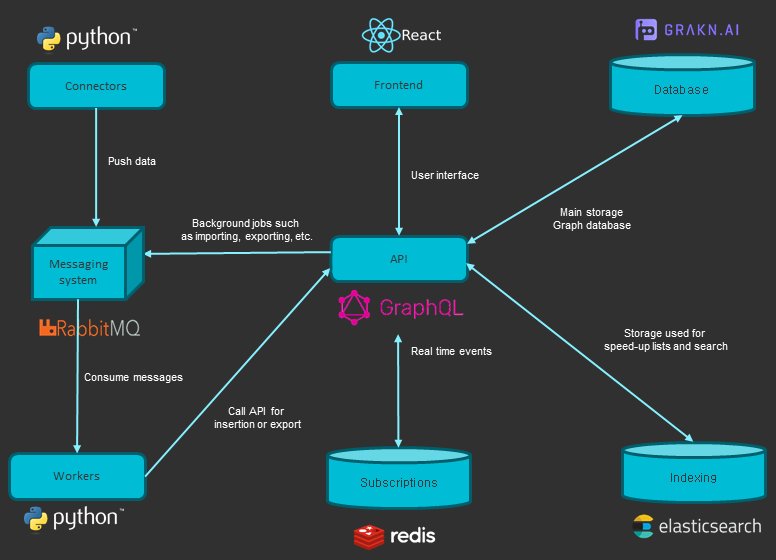
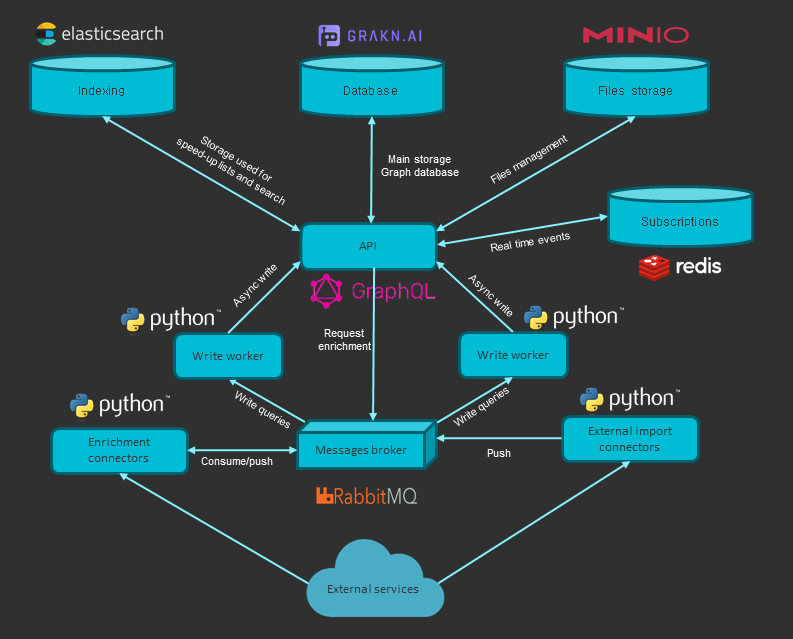
Deploy website
Deploy website version based on dc95fa42d113244a02b788e66fdfb3d473667911

diff --git a/next/getting-started/architecture.html b/next/getting-started/architecture.html
@@ -57,6 +57,15 @@
         </script></nav></div><div class="container mainContainer"><div class="wrapper"><div class="post"><header class="postHeader"><h1 class="postHeaderTitle">Architecture of the application</h1></header><article><div><span><p>The OpenCTI platform relies on several external databases and services in order to work.</p>
 <p><img src="/docs/assets/getting-started/architecture.png" alt="Architecture" title="Architecture"></p>
 <h2><a class="anchor" aria-hidden="true" id="the-graphql-api"></a><a href="#the-graphql-api" aria-hidden="true" class="hash-link"><svg class="hash-link-icon" aria-hidden="true" height="16" version="1.1" viewBox="0 0 16 16" width="16"><path fill-rule="evenodd" d="M4 9h1v1H4c-1.5 0-3-1.69-3-3.5S2.55 3 4 3h4c1.45 0 3 1.69 3 3.5 0 1.41-.91 2.72-2 3.25V8.59c.58-.45 1-1.27 1-2.09C10 5.22 8.98 4 8 4H4c-.98 0-2 1.22-2 2.5S3 9 4 9zm9-3h-1v1h1c1 0 2 1.22 2 2.5S13.98 12 13 12H9c-.98 0-2-1.22-2-2.5 0-.83.42-1.64 1-2.09V6.25c-1.09.53-2 1.84-2 3.25C6 11.31 7.55 13 9 13h4c1.45 0 3-1.69 3-3.5S14.5 6 13 6z"></path></svg></a>The GraphQL API</h2>
-<p>The API is the central part of the OpenCTI platorm, allowing the <em>clients</em> (including the <em>frontend</em>) to interact with the <em>databases</em> and the <em>brokers</em>.</p>
-<p><a href="https://opencti-platform.github.io/docs">documentation on the tool</a></p>
-</span></div></article></div><div class="docLastUpdate"><em>Last updated on 6/30/2019 by Samuel Hassine</em></div><div class="docs-prevnext"><a class="docs-prev button" href="/docs/next/getting-started/introduction"><span class="arrow-prev">← </span><span>Introduction</span></a><a class="docs-next button" href="/docs/next/getting-started/requirements"><span>Infrastructure requirements</span><span class="arrow-next"> →</span></a></div></div></div><nav class="onPageNav"><ul class="toc-headings"><li><a href="#the-graphql-api">The GraphQL API</a></li></ul></nav></div><footer class="nav-footer" id="footer"><section class="sitemap"><a href="/docs/" class="nav-home"><img src="/docs/img/logo.png" alt="OpenCTI documentation" width="66" height="58"/></a><div><h5>Docs</h5><a href="/docs/installation/docker">Install using Docker</a><a href="/docs/usage/overview">Usage introduction</a><a href="/docs/development/installation">Development environment</a></div><div><h5>Community</h5><a href="https://demo.opencti.io">Demonstration</a><a href="http://stackoverflow.com/questions/tagged/OpenCTI" target="_blank" rel="noreferrer noopener">Stack Overflow</a><a href="https://slack.luatix.org/">Slack</a><a href="https://twitter.com/LuatixHQ" target="_blank" rel="noreferrer noopener">Twitter</a></div><div><h5>More</h5><a href="https://www.luatix.org/en/blog/">Blog</a><a href="https://github.com/OpenCTI-Platform">GitHub</a><a class="github-button" href="https://github.com/OpenCTI-Platform/opencti" data-icon="octicon-star" data-count-href="/OpenCTI-Platform/opencti/stargazers" data-show-count="true" data-count-aria-label="# stargazers on GitHub" aria-label="Star this project on GitHub">Star</a></div></section><section class="copyright">Copyright © 2019 OpenCTI</section></footer></div></body></html>
+<p>The API is the central part of the OpenCTI platorm, allowing the <em>clients</em> (including the <em>frontend</em>) to interact with the <em>databases</em> and the <em>brokers</em>. Built in NodeJS, it implements the <a href="https://graphql.org/">GraphQL</a> query language. As the API has not a full documentation for the moment, you can explore the available methods and parameters through a GraphQL playground. An example is available on the <a href="https://demo.opencti.io/graphql">demonstration instance</a>.</p>
+<h2><a class="anchor" aria-hidden="true" id="the-workers"></a><a href="#the-workers" aria-hidden="true" class="hash-link"><svg class="hash-link-icon" aria-hidden="true" height="16" version="1.1" viewBox="0 0 16 16" width="16"><path fill-rule="evenodd" d="M4 9h1v1H4c-1.5 0-3-1.69-3-3.5S2.55 3 4 3h4c1.45 0 3 1.69 3 3.5 0 1.41-.91 2.72-2 3.25V8.59c.58-.45 1-1.27 1-2.09C10 5.22 8.98 4 8 4H4c-.98 0-2 1.22-2 2.5S3 9 4 9zm9-3h-1v1h1c1 0 2 1.22 2 2.5S13.98 12 13 12H9c-.98 0-2-1.22-2-2.5 0-.83.42-1.64 1-2.09V6.25c-1.09.53-2 1.84-2 3.25C6 11.31 7.55 13 9 13h4c1.45 0 3-1.69 3-3.5S14.5 6 13 6z"></path></svg></a>The workers</h2>
+<p>The workers are standalone Python processes that just consume messages from the RabbitMQ broker in order to do asynchroneous write queries. You can launch as many workers as you need to increase the write performances. Nevertheless, the Grakn database could have some problems with concurrent writing and fails on some operations.</p>
+<h2><a class="anchor" aria-hidden="true" id="the-connectors"></a><a href="#the-connectors" aria-hidden="true" class="hash-link"><svg class="hash-link-icon" aria-hidden="true" height="16" version="1.1" viewBox="0 0 16 16" width="16"><path fill-rule="evenodd" d="M4 9h1v1H4c-1.5 0-3-1.69-3-3.5S2.55 3 4 3h4c1.45 0 3 1.69 3 3.5 0 1.41-.91 2.72-2 3.25V8.59c.58-.45 1-1.27 1-2.09C10 5.22 8.98 4 8 4H4c-.98 0-2 1.22-2 2.5S3 9 4 9zm9-3h-1v1h1c1 0 2 1.22 2 2.5S13.98 12 13 12H9c-.98 0-2-1.22-2-2.5 0-.83.42-1.64 1-2.09V6.25c-1.09.53-2 1.84-2 3.25C6 11.31 7.55 13 9 13h4c1.45 0 3-1.69 3-3.5S14.5 6 13 6z"></path></svg></a>The connectors</h2>
+<p>The connectors are third-party softwares (Python processes) that can play 4 different roles on the platform:</p>
+<ul>
+<li>EXTERNAL_IMPORT: from remote sources to OpenCTI STIX2 (ie. MITRE, MISP, CVE, etc.)</li>
+<li>INTERNAL_IMPORT_FILE: from OpenCTI file system to OpenCTI STIX (ie. Extraction of observables from PDFs, STIX2 import, etc.)</li>
+<li>INTERNAL_ENRICHMENT: from OpenCTI STIX2 to OpenCTI STIX2 (ie. Enrichment of observables though external servies, entities updates, etc.)</li>
+<li>INTERNAL_EXPORT_FILE: from OpenCTI STIX2 to OpenCTI file system (ie. STIX2 export, PDF export, CSV list generation, etc.)</li>
+</ul>
+</span></div></article></div><div class="docLastUpdate"><em>Last updated on 10/26/2019 by Julien Richard</em></div><div class="docs-prevnext"><a class="docs-prev button" href="/docs/next/getting-started/introduction"><span class="arrow-prev">← </span><span>Introduction</span></a><a class="docs-next button" href="/docs/next/getting-started/requirements"><span>Infrastructure requirements</span><span class="arrow-next"> →</span></a></div></div></div><nav class="onPageNav"><ul class="toc-headings"><li><a href="#the-graphql-api">The GraphQL API</a></li><li><a href="#the-workers">The workers</a></li><li><a href="#the-connectors">The connectors</a></li></ul></nav></div><footer class="nav-footer" id="footer"><section class="sitemap"><a href="/docs/" class="nav-home"><img src="/docs/img/logo.png" alt="OpenCTI documentation" width="66" height="58"/></a><div><h5>Docs</h5><a href="/docs/installation/docker">Install using Docker</a><a href="/docs/usage/overview">Usage introduction</a><a href="/docs/development/installation">Development environment</a></div><div><h5>Community</h5><a href="https://demo.opencti.io">Demonstration</a><a href="http://stackoverflow.com/questions/tagged/OpenCTI" target="_blank" rel="noreferrer noopener">Stack Overflow</a><a href="https://slack.luatix.org/">Slack</a><a href="https://twitter.com/LuatixHQ" target="_blank" rel="noreferrer noopener">Twitter</a></div><div><h5>More</h5><a href="https://www.luatix.org/en/blog/">Blog</a><a href="https://github.com/OpenCTI-Platform">GitHub</a><a class="github-button" href="https://github.com/OpenCTI-Platform/opencti" data-icon="octicon-star" data-count-href="/OpenCTI-Platform/opencti/stargazers" data-show-count="true" data-count-aria-label="# stargazers on GitHub" aria-label="Star this project on GitHub">Star</a></div></section><section class="copyright">Copyright © 2019 OpenCTI</section></footer></div></body></html>

diff --git a/next/getting-started/architecture/index.html b/next/getting-started/architecture/index.html
@@ -57,6 +57,15 @@
         </script></nav></div><div class="container mainContainer"><div class="wrapper"><div class="post"><header class="postHeader"><h1 class="postHeaderTitle">Architecture of the application</h1></header><article><div><span><p>The OpenCTI platform relies on several external databases and services in order to work.</p>
 <p><img src="/docs/assets/getting-started/architecture.png" alt="Architecture" title="Architecture"></p>
 <h2><a class="anchor" aria-hidden="true" id="the-graphql-api"></a><a href="#the-graphql-api" aria-hidden="true" class="hash-link"><svg class="hash-link-icon" aria-hidden="true" height="16" version="1.1" viewBox="0 0 16 16" width="16"><path fill-rule="evenodd" d="M4 9h1v1H4c-1.5 0-3-1.69-3-3.5S2.55 3 4 3h4c1.45 0 3 1.69 3 3.5 0 1.41-.91 2.72-2 3.25V8.59c.58-.45 1-1.27 1-2.09C10 5.22 8.98 4 8 4H4c-.98 0-2 1.22-2 2.5S3 9 4 9zm9-3h-1v1h1c1 0 2 1.22 2 2.5S13.98 12 13 12H9c-.98 0-2-1.22-2-2.5 0-.83.42-1.64 1-2.09V6.25c-1.09.53-2 1.84-2 3.25C6 11.31 7.55 13 9 13h4c1.45 0 3-1.69 3-3.5S14.5 6 13 6z"></path></svg></a>The GraphQL API</h2>
-<p>The API is the central part of the OpenCTI platorm, allowing the <em>clients</em> (including the <em>frontend</em>) to interact with the <em>databases</em> and the <em>brokers</em>.</p>
-<p><a href="https://opencti-platform.github.io/docs">documentation on the tool</a></p>
-</span></div></article></div><div class="docLastUpdate"><em>Last updated on 6/30/2019 by Samuel Hassine</em></div><div class="docs-prevnext"><a class="docs-prev button" href="/docs/next/getting-started/introduction"><span class="arrow-prev">← </span><span>Introduction</span></a><a class="docs-next button" href="/docs/next/getting-started/requirements"><span>Infrastructure requirements</span><span class="arrow-next"> →</span></a></div></div></div><nav class="onPageNav"><ul class="toc-headings"><li><a href="#the-graphql-api">The GraphQL API</a></li></ul></nav></div><footer class="nav-footer" id="footer"><section class="sitemap"><a href="/docs/" class="nav-home"><img src="/docs/img/logo.png" alt="OpenCTI documentation" width="66" height="58"/></a><div><h5>Docs</h5><a href="/docs/installation/docker">Install using Docker</a><a href="/docs/usage/overview">Usage introduction</a><a href="/docs/development/installation">Development environment</a></div><div><h5>Community</h5><a href="https://demo.opencti.io">Demonstration</a><a href="http://stackoverflow.com/questions/tagged/OpenCTI" target="_blank" rel="noreferrer noopener">Stack Overflow</a><a href="https://slack.luatix.org/">Slack</a><a href="https://twitter.com/LuatixHQ" target="_blank" rel="noreferrer noopener">Twitter</a></div><div><h5>More</h5><a href="https://www.luatix.org/en/blog/">Blog</a><a href="https://github.com/OpenCTI-Platform">GitHub</a><a class="github-button" href="https://github.com/OpenCTI-Platform/opencti" data-icon="octicon-star" data-count-href="/OpenCTI-Platform/opencti/stargazers" data-show-count="true" data-count-aria-label="# stargazers on GitHub" aria-label="Star this project on GitHub">Star</a></div></section><section class="copyright">Copyright © 2019 OpenCTI</section></footer></div></body></html>
+<p>The API is the central part of the OpenCTI platorm, allowing the <em>clients</em> (including the <em>frontend</em>) to interact with the <em>databases</em> and the <em>brokers</em>. Built in NodeJS, it implements the <a href="https://graphql.org/">GraphQL</a> query language. As the API has not a full documentation for the moment, you can explore the available methods and parameters through a GraphQL playground. An example is available on the <a href="https://demo.opencti.io/graphql">demonstration instance</a>.</p>
+<h2><a class="anchor" aria-hidden="true" id="the-workers"></a><a href="#the-workers" aria-hidden="true" class="hash-link"><svg class="hash-link-icon" aria-hidden="true" height="16" version="1.1" viewBox="0 0 16 16" width="16"><path fill-rule="evenodd" d="M4 9h1v1H4c-1.5 0-3-1.69-3-3.5S2.55 3 4 3h4c1.45 0 3 1.69 3 3.5 0 1.41-.91 2.72-2 3.25V8.59c.58-.45 1-1.27 1-2.09C10 5.22 8.98 4 8 4H4c-.98 0-2 1.22-2 2.5S3 9 4 9zm9-3h-1v1h1c1 0 2 1.22 2 2.5S13.98 12 13 12H9c-.98 0-2-1.22-2-2.5 0-.83.42-1.64 1-2.09V6.25c-1.09.53-2 1.84-2 3.25C6 11.31 7.55 13 9 13h4c1.45 0 3-1.69 3-3.5S14.5 6 13 6z"></path></svg></a>The workers</h2>
+<p>The workers are standalone Python processes that just consume messages from the RabbitMQ broker in order to do asynchroneous write queries. You can launch as many workers as you need to increase the write performances. Nevertheless, the Grakn database could have some problems with concurrent writing and fails on some operations.</p>
+<h2><a class="anchor" aria-hidden="true" id="the-connectors"></a><a href="#the-connectors" aria-hidden="true" class="hash-link"><svg class="hash-link-icon" aria-hidden="true" height="16" version="1.1" viewBox="0 0 16 16" width="16"><path fill-rule="evenodd" d="M4 9h1v1H4c-1.5 0-3-1.69-3-3.5S2.55 3 4 3h4c1.45 0 3 1.69 3 3.5 0 1.41-.91 2.72-2 3.25V8.59c.58-.45 1-1.27 1-2.09C10 5.22 8.98 4 8 4H4c-.98 0-2 1.22-2 2.5S3 9 4 9zm9-3h-1v1h1c1 0 2 1.22 2 2.5S13.98 12 13 12H9c-.98 0-2-1.22-2-2.5 0-.83.42-1.64 1-2.09V6.25c-1.09.53-2 1.84-2 3.25C6 11.31 7.55 13 9 13h4c1.45 0 3-1.69 3-3.5S14.5 6 13 6z"></path></svg></a>The connectors</h2>
+<p>The connectors are third-party softwares (Python processes) that can play 4 different roles on the platform:</p>
+<ul>
+<li>EXTERNAL_IMPORT: from remote sources to OpenCTI STIX2 (ie. MITRE, MISP, CVE, etc.)</li>
+<li>INTERNAL_IMPORT_FILE: from OpenCTI file system to OpenCTI STIX (ie. Extraction of observables from PDFs, STIX2 import, etc.)</li>
+<li>INTERNAL_ENRICHMENT: from OpenCTI STIX2 to OpenCTI STIX2 (ie. Enrichment of observables though external servies, entities updates, etc.)</li>
+<li>INTERNAL_EXPORT_FILE: from OpenCTI STIX2 to OpenCTI file system (ie. STIX2 export, PDF export, CSV list generation, etc.)</li>
+</ul>
+</span></div></article></div><div class="docLastUpdate"><em>Last updated on 10/26/2019 by Julien Richard</em></div><div class="docs-prevnext"><a class="docs-prev button" href="/docs/next/getting-started/introduction"><span class="arrow-prev">← </span><span>Introduction</span></a><a class="docs-next button" href="/docs/next/getting-started/requirements"><span>Infrastructure requirements</span><span class="arrow-next"> →</span></a></div></div></div><nav class="onPageNav"><ul class="toc-headings"><li><a href="#the-graphql-api">The GraphQL API</a></li><li><a href="#the-workers">The workers</a></li><li><a href="#the-connectors">The connectors</a></li></ul></nav></div><footer class="nav-footer" id="footer"><section class="sitemap"><a href="/docs/" class="nav-home"><img src="/docs/img/logo.png" alt="OpenCTI documentation" width="66" height="58"/></a><div><h5>Docs</h5><a href="/docs/installation/docker">Install using Docker</a><a href="/docs/usage/overview">Usage introduction</a><a href="/docs/development/installation">Development environment</a></div><div><h5>Community</h5><a href="https://demo.opencti.io">Demonstration</a><a href="http://stackoverflow.com/questions/tagged/OpenCTI" target="_blank" rel="noreferrer noopener">Stack Overflow</a><a href="https://slack.luatix.org/">Slack</a><a href="https://twitter.com/LuatixHQ" target="_blank" rel="noreferrer noopener">Twitter</a></div><div><h5>More</h5><a href="https://www.luatix.org/en/blog/">Blog</a><a href="https://github.com/OpenCTI-Platform">GitHub</a><a class="github-button" href="https://github.com/OpenCTI-Platform/opencti" data-icon="octicon-star" data-count-href="/OpenCTI-Platform/opencti/stargazers" data-show-count="true" data-count-aria-label="# stargazers on GitHub" aria-label="Star this project on GitHub">Star</a></div></section><section class="copyright">Copyright © 2019 OpenCTI</section></footer></div></body></html>

diff --git a/next/installation/connectors.html b/next/installation/connectors.html
@@ -71,10 +71,10 @@
 <blockquote>
 <p>The <code>CONNECTOR_TYPE</code> must be a valid type, the possible types are:</p>
 <ul>
-<li>EXTERNAL_IMPORT: from remote sources to OpenCTI stix2</li>
-<li>INTERNAL_IMPORT_FILE: from OpenCTI file system to OpenCTI stix2</li>
-<li>INTERNAL_ENRICHMENT: from OpenCTI stix2 to OpenCTI stix2</li>
-<li>INTERNAL_EXPORT_FILE: from OpenCTI stix2 to OpenCTI file system</li>
+<li>EXTERNAL_IMPORT: from remote sources to OpenCTI STIX2 (ie. MITRE, MISP, CVE, etc.)</li>
+<li>INTERNAL_IMPORT_FILE: from OpenCTI file system to OpenCTI STIX (ie. Extraction of observables from PDFs, STIX2 import, etc.)</li>
+<li>INTERNAL_ENRICHMENT: from OpenCTI STIX2 to OpenCTI STIX2 (ie. Enrichment of observables though external servies, entities updates, etc.)</li>
+<li>INTERNAL_EXPORT_FILE: from OpenCTI STIX2 to OpenCTI file system (ie. STIX2 export, PDF export, CSV list generation, etc.)</li>
 </ul>
 </blockquote>
 <blockquote>
@@ -144,4 +144,4 @@ $ cp config<span class="hljs-selector-class">.yml</span><span class="hljs-select
 <h2><a class="anchor" aria-hidden="true" id="connectors-status"></a><a href="#connectors-status" aria-hidden="true" class="hash-link"><svg class="hash-link-icon" aria-hidden="true" height="16" version="1.1" viewBox="0 0 16 16" width="16"><path fill-rule="evenodd" d="M4 9h1v1H4c-1.5 0-3-1.69-3-3.5S2.55 3 4 3h4c1.45 0 3 1.69 3 3.5 0 1.41-.91 2.72-2 3.25V8.59c.58-.45 1-1.27 1-2.09C10 5.22 8.98 4 8 4H4c-.98 0-2 1.22-2 2.5S3 9 4 9zm9-3h-1v1h1c1 0 2 1.22 2 2.5S13.98 12 13 12H9c-.98 0-2-1.22-2-2.5 0-.83.42-1.64 1-2.09V6.25c-1.09.53-2 1.84-2 3.25C6 11.31 7.55 13 9 13h4c1.45 0 3-1.69 3-3.5S14.5 6 13 6z"></path></svg></a>Connectors status</h2>
 <p>The connector status can be displayed in the dedicated section. You will be able to see the statistics of the RabbitMQ queue of the connector:</p>
 <p><img src="/docs/assets/installation/connectors_status.png" alt="Connectors status" title="Connectors status"></p>
-</span></div></article></div><div class="docLastUpdate"><em>Last updated on 10/24/2019 by Samuel Hassine</em></div><div class="docs-prevnext"><a class="docs-prev button" href="/docs/next/installation/manual"><span class="arrow-prev">← </span><span>Manual deployment</span></a><a class="docs-next button" href="/docs/next/development/installation"><span>Development environment</span><span class="arrow-next"> →</span></a></div></div></div><nav class="onPageNav"><ul class="toc-headings"><li><a href="#introduction">Introduction</a></li><li><a href="#connector-configurations">Connector configurations</a></li><li><a href="#docker-activation">Docker activation</a><ul class="toc-headings"><li><a href="#add-a-connector-to-your-deployment">Add a connector to your deployment</a></li><li><a href="#launch-a-standalone-connector">Launch a standalone connector</a></li></ul></li><li><a href="#manual-activation">Manual activation</a></li><li><a href="#connectors-status">Connectors status</a></li></ul></nav></div><footer class="nav-footer" id="footer"><section class="sitemap"><a href="/docs/" class="nav-home"><img src="/docs/img/logo.png" alt="OpenCTI documentation" width="66" height="58"/></a><div><h5>Docs</h5><a href="/docs/installation/docker">Install using Docker</a><a href="/docs/usage/overview">Usage introduction</a><a href="/docs/development/installation">Development environment</a></div><div><h5>Community</h5><a href="https://demo.opencti.io">Demonstration</a><a href="http://stackoverflow.com/questions/tagged/OpenCTI" target="_blank" rel="noreferrer noopener">Stack Overflow</a><a href="https://slack.luatix.org/">Slack</a><a href="https://twitter.com/LuatixHQ" target="_blank" rel="noreferrer noopener">Twitter</a></div><div><h5>More</h5><a href="https://www.luatix.org/en/blog/">Blog</a><a href="https://github.com/OpenCTI-Platform">GitHub</a><a class="github-button" href="https://github.com/OpenCTI-Platform/opencti" data-icon="octicon-star" data-count-href="/OpenCTI-Platform/opencti/stargazers" data-show-count="true" data-count-aria-label="# stargazers on GitHub" aria-label="Star this project on GitHub">Star</a></div></section><section class="copyright">Copyright © 2019 OpenCTI</section></footer></div></body></html>
+</span></div></article></div><div class="docLastUpdate"><em>Last updated on 10/26/2019 by Julien Richard</em></div><div class="docs-prevnext"><a class="docs-prev button" href="/docs/next/installation/manual"><span class="arrow-prev">← </span><span>Manual deployment</span></a><a class="docs-next button" href="/docs/next/development/installation"><span>Development environment</span><span class="arrow-next"> →</span></a></div></div></div><nav class="onPageNav"><ul class="toc-headings"><li><a href="#introduction">Introduction</a></li><li><a href="#connector-configurations">Connector configurations</a></li><li><a href="#docker-activation">Docker activation</a><ul class="toc-headings"><li><a href="#add-a-connector-to-your-deployment">Add a connector to your deployment</a></li><li><a href="#launch-a-standalone-connector">Launch a standalone connector</a></li></ul></li><li><a href="#manual-activation">Manual activation</a></li><li><a href="#connectors-status">Connectors status</a></li></ul></nav></div><footer class="nav-footer" id="footer"><section class="sitemap"><a href="/docs/" class="nav-home"><img src="/docs/img/logo.png" alt="OpenCTI documentation" width="66" height="58"/></a><div><h5>Docs</h5><a href="/docs/installation/docker">Install using Docker</a><a href="/docs/usage/overview">Usage introduction</a><a href="/docs/development/installation">Development environment</a></div><div><h5>Community</h5><a href="https://demo.opencti.io">Demonstration</a><a href="http://stackoverflow.com/questions/tagged/OpenCTI" target="_blank" rel="noreferrer noopener">Stack Overflow</a><a href="https://slack.luatix.org/">Slack</a><a href="https://twitter.com/LuatixHQ" target="_blank" rel="noreferrer noopener">Twitter</a></div><div><h5>More</h5><a href="https://www.luatix.org/en/blog/">Blog</a><a href="https://github.com/OpenCTI-Platform">GitHub</a><a class="github-button" href="https://github.com/OpenCTI-Platform/opencti" data-icon="octicon-star" data-count-href="/OpenCTI-Platform/opencti/stargazers" data-show-count="true" data-count-aria-label="# stargazers on GitHub" aria-label="Star this project on GitHub">Star</a></div></section><section class="copyright">Copyright © 2019 OpenCTI</section></footer></div></body></html>

diff --git a/next/installation/connectors/index.html b/next/installation/connectors/index.html
@@ -71,10 +71,10 @@
 <blockquote>
 <p>The <code>CONNECTOR_TYPE</code> must be a valid type, the possible types are:</p>
 <ul>
-<li>EXTERNAL_IMPORT: from remote sources to OpenCTI stix2</li>
-<li>INTERNAL_IMPORT_FILE: from OpenCTI file system to OpenCTI stix2</li>
-<li>INTERNAL_ENRICHMENT: from OpenCTI stix2 to OpenCTI stix2</li>
-<li>INTERNAL_EXPORT_FILE: from OpenCTI stix2 to OpenCTI file system</li>
+<li>EXTERNAL_IMPORT: from remote sources to OpenCTI STIX2 (ie. MITRE, MISP, CVE, etc.)</li>
+<li>INTERNAL_IMPORT_FILE: from OpenCTI file system to OpenCTI STIX (ie. Extraction of observables from PDFs, STIX2 import, etc.)</li>
+<li>INTERNAL_ENRICHMENT: from OpenCTI STIX2 to OpenCTI STIX2 (ie. Enrichment of observables though external servies, entities updates, etc.)</li>
+<li>INTERNAL_EXPORT_FILE: from OpenCTI STIX2 to OpenCTI file system (ie. STIX2 export, PDF export, CSV list generation, etc.)</li>
 </ul>
 </blockquote>
 <blockquote>
@@ -144,4 +144,4 @@ $ cp config<span class="hljs-selector-class">.yml</span><span class="hljs-select
 <h2><a class="anchor" aria-hidden="true" id="connectors-status"></a><a href="#connectors-status" aria-hidden="true" class="hash-link"><svg class="hash-link-icon" aria-hidden="true" height="16" version="1.1" viewBox="0 0 16 16" width="16"><path fill-rule="evenodd" d="M4 9h1v1H4c-1.5 0-3-1.69-3-3.5S2.55 3 4 3h4c1.45 0 3 1.69 3 3.5 0 1.41-.91 2.72-2 3.25V8.59c.58-.45 1-1.27 1-2.09C10 5.22 8.98 4 8 4H4c-.98 0-2 1.22-2 2.5S3 9 4 9zm9-3h-1v1h1c1 0 2 1.22 2 2.5S13.98 12 13 12H9c-.98 0-2-1.22-2-2.5 0-.83.42-1.64 1-2.09V6.25c-1.09.53-2 1.84-2 3.25C6 11.31 7.55 13 9 13h4c1.45 0 3-1.69 3-3.5S14.5 6 13 6z"></path></svg></a>Connectors status</h2>
 <p>The connector status can be displayed in the dedicated section. You will be able to see the statistics of the RabbitMQ queue of the connector:</p>
 <p><img src="/docs/assets/installation/connectors_status.png" alt="Connectors status" title="Connectors status"></p>
-</span></div></article></div><div class="docLastUpdate"><em>Last updated on 10/24/2019 by Samuel Hassine</em></div><div class="docs-prevnext"><a class="docs-prev button" href="/docs/next/installation/manual"><span class="arrow-prev">← </span><span>Manual deployment</span></a><a class="docs-next button" href="/docs/next/development/installation"><span>Development environment</span><span class="arrow-next"> →</span></a></div></div></div><nav class="onPageNav"><ul class="toc-headings"><li><a href="#introduction">Introduction</a></li><li><a href="#connector-configurations">Connector configurations</a></li><li><a href="#docker-activation">Docker activation</a><ul class="toc-headings"><li><a href="#add-a-connector-to-your-deployment">Add a connector to your deployment</a></li><li><a href="#launch-a-standalone-connector">Launch a standalone connector</a></li></ul></li><li><a href="#manual-activation">Manual activation</a></li><li><a href="#connectors-status">Connectors status</a></li></ul></nav></div><footer class="nav-footer" id="footer"><section class="sitemap"><a href="/docs/" class="nav-home"><img src="/docs/img/logo.png" alt="OpenCTI documentation" width="66" height="58"/></a><div><h5>Docs</h5><a href="/docs/installation/docker">Install using Docker</a><a href="/docs/usage/overview">Usage introduction</a><a href="/docs/development/installation">Development environment</a></div><div><h5>Community</h5><a href="https://demo.opencti.io">Demonstration</a><a href="http://stackoverflow.com/questions/tagged/OpenCTI" target="_blank" rel="noreferrer noopener">Stack Overflow</a><a href="https://slack.luatix.org/">Slack</a><a href="https://twitter.com/LuatixHQ" target="_blank" rel="noreferrer noopener">Twitter</a></div><div><h5>More</h5><a href="https://www.luatix.org/en/blog/">Blog</a><a href="https://github.com/OpenCTI-Platform">GitHub</a><a class="github-button" href="https://github.com/OpenCTI-Platform/opencti" data-icon="octicon-star" data-count-href="/OpenCTI-Platform/opencti/stargazers" data-show-count="true" data-count-aria-label="# stargazers on GitHub" aria-label="Star this project on GitHub">Star</a></div></section><section class="copyright">Copyright © 2019 OpenCTI</section></footer></div></body></html>
+</span></div></article></div><div class="docLastUpdate"><em>Last updated on 10/26/2019 by Julien Richard</em></div><div class="docs-prevnext"><a class="docs-prev button" href="/docs/next/installation/manual"><span class="arrow-prev">← </span><span>Manual deployment</span></a><a class="docs-next button" href="/docs/next/development/installation"><span>Development environment</span><span class="arrow-next"> →</span></a></div></div></div><nav class="onPageNav"><ul class="toc-headings"><li><a href="#introduction">Introduction</a></li><li><a href="#connector-configurations">Connector configurations</a></li><li><a href="#docker-activation">Docker activation</a><ul class="toc-headings"><li><a href="#add-a-connector-to-your-deployment">Add a connector to your deployment</a></li><li><a href="#launch-a-standalone-connector">Launch a standalone connector</a></li></ul></li><li><a href="#manual-activation">Manual activation</a></li><li><a href="#connectors-status">Connectors status</a></li></ul></nav></div><footer class="nav-footer" id="footer"><section class="sitemap"><a href="/docs/" class="nav-home"><img src="/docs/img/logo.png" alt="OpenCTI documentation" width="66" height="58"/></a><div><h5>Docs</h5><a href="/docs/installation/docker">Install using Docker</a><a href="/docs/usage/overview">Usage introduction</a><a href="/docs/development/installation">Development environment</a></div><div><h5>Community</h5><a href="https://demo.opencti.io">Demonstration</a><a href="http://stackoverflow.com/questions/tagged/OpenCTI" target="_blank" rel="noreferrer noopener">Stack Overflow</a><a href="https://slack.luatix.org/">Slack</a><a href="https://twitter.com/LuatixHQ" target="_blank" rel="noreferrer noopener">Twitter</a></div><div><h5>More</h5><a href="https://www.luatix.org/en/blog/">Blog</a><a href="https://github.com/OpenCTI-Platform">GitHub</a><a class="github-button" href="https://github.com/OpenCTI-Platform/opencti" data-icon="octicon-star" data-count-href="/OpenCTI-Platform/opencti/stargazers" data-show-count="true" data-count-aria-label="# stargazers on GitHub" aria-label="Star this project on GitHub">Star</a></div></section><section class="copyright">Copyright © 2019 OpenCTI</section></footer></div></body></html>
